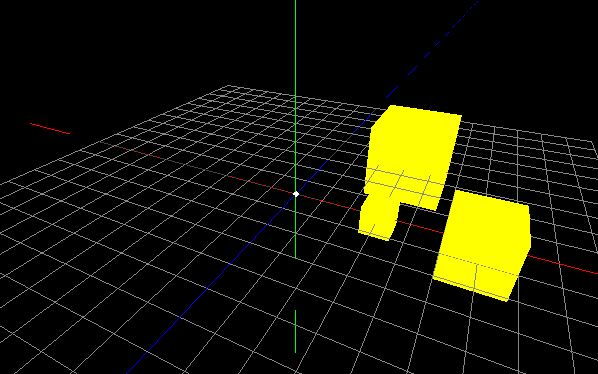
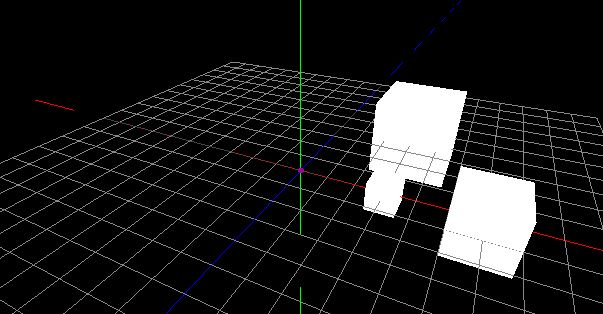
push pop algorithm update fixed #35

diff --git a/static/js/gl/3d.pushpop.js b/static/js/gl/3d.pushpop.js
@@ -2,7 +2,16 @@
  * Created by Lee on 2015-01-29.
  */
 
-
+var CTMPivot;
+var colorStack = new Array();
+var index = 0;
+colorStack.push(new THREE.Color(0xffffff));
+colorStack.push(new THREE.Color(0xff0000));
+colorStack.push(new THREE.Color(0x00ff00));
+colorStack.push(new THREE.Color(0x00ffff));
+colorStack.push(new THREE.Color(0xAA00ff));
+colorStack.push(new THREE.Color(0xAA00AA));
+colorStack.push(new THREE.Color(0xAAAA00));
 
 sGL.prototype.initCamera = function() {
     // 3D용 카메라 세팅
@@ -101,7 +110,16 @@ sGL.prototype.run = function() {
         //-----------------------------
 
         // Current Transformaion Matrix
+        // Current Transformaion Matrix
         var CTM = new THREE.Matrix4();          // 현재 변환 행렬
+
+        var geometry = new THREE.SphereGeometry(0.1, 100, 100);
+        var material = new THREE.MeshBasicMaterial({color: 0xffffff});
+        index = 0;
+        material.color = colorStack[index++];
+        CTMPivot = new THREE.Mesh(geometry, material);
+        self.scene.add(CTMPivot);
+
         var STACK_CTM = [];
 
         //-----------------------------
@@ -117,7 +135,7 @@ sGL.prototype.run = function() {
             theta : 0,
             rX : 0,
             rY : 0,
-            rZ : 0,
+            rZ : 0
         }
 
 
@@ -163,7 +181,13 @@ function drawBox(item, CTM, scene, rotateInfo) {
 
     // 지오메트리 생성
     var geometry = new THREE.BoxGeometry(item.data.size, item.data.size, item.data.size);
-    var material = new THREE.MeshBasicMaterial({color: 0xffff00});
+    var material = new THREE.MeshPhongMaterial( {
+        ambient: 0x333333,
+        color: 0xffffff,
+        emissive : 0xF7FF69,
+        specular: 0xffffff,
+        shininess: 50
+    } );
     var box = new THREE.Mesh(geometry, material);
 
     var localMatrix = new THREE.Matrix4().makeTranslation(item.data.x, item.data.y, item.data.z); // 지역 변환 행렬 translate
@@ -191,13 +215,14 @@ function doTranslate(item, CTM, scene) {
     var multipleMatrix = new THREE.Matrix4().makeTranslation(item.data.x, item.data.y, item.data.z);
 
     // CTM 좌표 옮김
-
-
     var geometry = new THREE.SphereGeometry(0.1, 100, 100);
     var material = new THREE.MeshBasicMaterial({color: 0xffffff});
-    var CTMPivot = new THREE.Mesh(geometry, material);
+    material.color = colorStack[index++];
+    CTMPivot = new THREE.Mesh(geometry, material);
+    CTMPivot.applyMatrix(CTM);
     CTMPivot.applyMatrix(multipleMatrix); // 기존 좌표 행렬 * 이동한 좌표 행렬
     scene.add(CTMPivot);
+
 
     CTM.multiply(multipleMatrix);       // CTM Update
 
@@ -208,10 +233,6 @@ function doTranslate(item, CTM, scene) {
 function idMatrix(CTM, scene){
     // translate init
     CTM.identity();
-
-    var geometry = new THREE.SphereGeometry(0.1, 100, 100);
-    var material = new THREE.MeshBasicMaterial({color: 0xffffff});
-    var CTMPivot = new THREE.Mesh(geometry, material);
     CTMPivot.position.set(0,0,0);
 
     scene.add(CTMPivot);
@@ -235,6 +256,7 @@ function popMatrix(stack_CTM, scene){
 
     var geometry = new THREE.SphereGeometry(0.1, 100, 100);
     var material = new THREE.MeshBasicMaterial({color: 0xffffff});
+    material.color = colorStack[index++];
     var CTMPivot = new THREE.Mesh(geometry, material);
     CTMPivot.applyMatrix(CTM);
 
